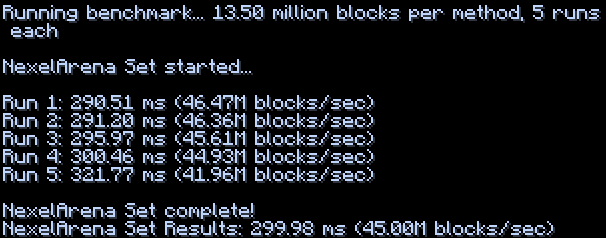
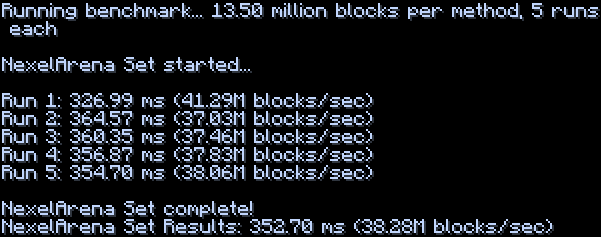
Safety checks, and updated benchmark

diff --git a/src/main/java/net/vansen/nexelarena/commands/ArenaCommand.java b/src/main/java/net/vansen/nexelarena/commands/ArenaCommand.java
@@ -11,10 +11,8 @@ import net.vansen.nexelarena.NexelArena;
 import net.vansen.nexelarena.corners.PositionManager;
 import net.vansen.nexelarena.corners.entry.PositionEntry;
 import net.vansen.nexelarena.modification.NexelLevel;
-import net.vansen.nexelarena.modification.update.utility.RegionUtils;
 import net.vansen.nexelarena.schematic.Schematic;
 import net.vansen.nexelarena.utils.NumberFormatter;
-import org.bukkit.Material;
 
 import java.io.File;
 import java.io.IOException;
@@ -161,32 +159,6 @@ public class ArenaCommand {
                                     } else {
                                         context.response("<#ff577e>Failed to delete file!");
                                     }
-                                })))
-                .subCommand(SubCommand.of("set")
-                        .argument(CommandArgument.string("material")
-                                .completion((context, wrapper) -> {
-                                    Arrays.stream(Material.values())
-                                            .map(m -> m.name().toLowerCase())
-                                            .filter(m -> m.startsWith(wrapper.builder().getRemainingLowerCase()))
-                                            .forEach(wrapper::suggest);
-                                    return wrapper.build();
-                                })
-                                .playerExecute(context -> {
-                                    Material material = Material.matchMaterial(context.arg("material", String.class));
-                                    if (material == null) {
-                                        context.response("<#ff577e>Invalid material");
-                                        return;
-                                    }
-                                    PositionEntry entry = PositionManager.get(context.playerName());
-                                    if (entry.first().isEmpty() || entry.second().isEmpty()) {
-                                        context.response("<#ff577e>pos1 or pos2 is not set!");
-                                        return;
-                                    }
-                                    // noinspection UnstableApiUsage
-                                    NexelLevel level = new NexelLevel(context.world())
-                                            .updates(RegionUtils.setChunkState(entry.first().orElseThrow(), entry.second().orElseThrow(), material.createBlockData().createBlockState()))
-                                            .blockCallback(integer -> context.response("<#8336ff>Set " + NumberFormatter.format(integer) + " blocks to " + material.name()));
-                                    level.applyPendingBlockUpdates();
                                 })))
                 .subCommand(SubCommand.of("cache")
                         .subCommand(SubCommand.of("clear")

diff --git a/src/main/java/net/vansen/nexelarena/modification/block/impl/MiddleLevelUncheckedBlockSet.java b/src/main/java/net/vansen/nexelarena/modification/block/impl/MiddleLevelUncheckedBlockSet.java
@@ -3,6 +3,7 @@ package net.vansen.nexelarena.modification.block.impl;
 import net.minecraft.world.level.block.state.BlockState;
 import net.minecraft.world.level.chunk.ChunkAccess;
 import net.minecraft.world.level.chunk.LevelChunkSection;
+import net.vansen.nexelarena.NexelArena;
 import net.vansen.nexelarena.modification.block.BlockSet;
 import org.jetbrains.annotations.NotNull;
 
@@ -10,6 +11,12 @@ public class MiddleLevelUncheckedBlockSet implements BlockSet {
 
     @Override
     public void set(int x, int y, int z, @NotNull BlockState state, @NotNull ChunkAccess chunk, @NotNull LevelChunkSection section) {
-        section.setBlockState(x, y, z, state, false);
+        try {
+            section.setBlockState(x, y, z, state, false);
+        } catch (Exception e) {
+            NexelArena.instance()
+                    .getSLF4JLogger()
+                    .error("Failed to set block at {} {} {}, if you think this is a bug, please report it at https://github.com/vansencool/NexelArena", x, y, z, e);
+        }
     }
 }

diff --git a/src/main/java/net/vansen/nexelarena/modification/block/impl/HighLevelBlockSet.java b/src/main/java/net/vansen/nexelarena/modification/block/impl/HighLevelBlockSet.java
@@ -4,6 +4,7 @@ import net.minecraft.core.BlockPos;
 import net.minecraft.world.level.block.state.BlockState;
 import net.minecraft.world.level.chunk.ChunkAccess;
 import net.minecraft.world.level.chunk.LevelChunkSection;
+import net.vansen.nexelarena.NexelArena;
 import net.vansen.nexelarena.modification.block.BlockSet;
 import org.jetbrains.annotations.NotNull;
 
@@ -12,6 +13,12 @@ public class HighLevelBlockSet implements BlockSet {
 
     @Override
     public void set(int x, int y, int z, @NotNull BlockState state, @NotNull ChunkAccess chunk, @NotNull LevelChunkSection section) {
-        chunk.setBlockState(new BlockPos(x, y, z), state, false);
+        try {
+            chunk.setBlockState(new BlockPos(x, y, z), state, false);
+        } catch (Exception e) {
+            NexelArena.instance()
+                    .getSLF4JLogger()
+                    .error("Failed to set block at {} {} {}, if you think this is a bug, please report it at https://github.com/vansencool/NexelArena", x, y, z, e);
+        }
     }
 }

diff --git a/src/main/java/net/vansen/nexelarena/modification/block/impl/MiddleLevelBlockSet.java b/src/main/java/net/vansen/nexelarena/modification/block/impl/MiddleLevelBlockSet.java
@@ -3,6 +3,7 @@ package net.vansen.nexelarena.modification.block.impl;
 import net.minecraft.world.level.block.state.BlockState;
 import net.minecraft.world.level.chunk.ChunkAccess;
 import net.minecraft.world.level.chunk.LevelChunkSection;
+import net.vansen.nexelarena.NexelArena;
 import net.vansen.nexelarena.modification.block.BlockSet;
 import org.jetbrains.annotations.NotNull;
 
@@ -11,6 +12,12 @@ public class MiddleLevelBlockSet implements BlockSet {
 
     @Override
     public void set(int x, int y, int z, @NotNull BlockState state, @NotNull ChunkAccess chunk, @NotNull LevelChunkSection section) {
-        section.setBlockState(x, y, z, state);
+        try {
+            section.setBlockState(x, y, z, state);
+        } catch (Exception e) {
+            NexelArena.instance()
+                    .getSLF4JLogger()
+                    .error("Failed to set block at {} {} {}, if you think this is a bug, please report it at https://github.com/vansencool/NexelArena", x, y, z, e);
+        }
     }
 }

diff --git a/src/main/java/net/vansen/nexelarena/modification/NexelLevel.java b/src/main/java/net/vansen/nexelarena/modification/NexelLevel.java
@@ -86,7 +86,7 @@ public class NexelLevel {
                         if (sectionIndex < 0) {
                             NexelArena.instance()
                                     .getSLF4JLogger()
-                                    .warn("Section index is negative: {} - in chunk: {}, {} - please report this at https://github.com/vansencool/NexelArena", sectionUpdate.sectionIndex, chunkUpdates.chunkX, chunkUpdates.chunkZ);
+                                    .warn("Section index is negative: {} - in chunk: {}, {} - if you are think this is a bug, please report it at https://github.com/vansencool/NexelArena", sectionUpdate.sectionIndex, chunkUpdates.chunkX, chunkUpdates.chunkZ);
                             continue;
                         }
 
